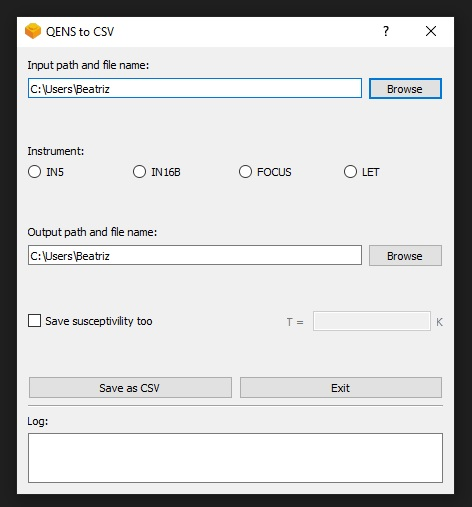
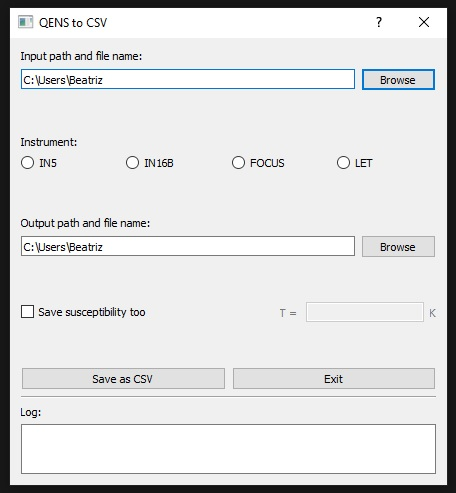
Documentation and typo fixes

diff --git a/QENS_to_csv_pkg/app_QENStoCSV_Dlg.py b/QENS_to_csv_pkg/app_QENStoCSV_Dlg.py
@@ -48,8 +48,8 @@ class DLG(QDialog, Ui_Dialog_QENStoCSV):
         to save the output file name and path
     _defaultPath: str
         to save the default path when initializing the app
-    _susceptivility_checked: bool
-        to save the value of the susceptivility checkbox
+    _susceptibility_checked: bool
+        to save the value of the susceptibility checkbox
     _temperature: str
         to save the (str) value of the temperature introduced
         in the lineEdit
@@ -102,9 +102,9 @@ class DLG(QDialog, Ui_Dialog_QENStoCSV):
         _defaultPath: str
             the default path in the browser.
             It is set to "./User/Documents"
-        _susceptivility_checked: bool
+        _susceptibility_checked: bool
             the status of the check box that gives the option to save
-            the susceptivility
+            the susceptibility
         _temperature: str
             the string value of the temperature introduced in the dlg
         _last_msg: str
@@ -122,7 +122,7 @@ class DLG(QDialog, Ui_Dialog_QENStoCSV):
         self._defaultPath = os.path.expanduser('~')
         # self._ifile_selected = False
         # self._ofile_selected = False
-        self._susceptivility_checked = False
+        self._susceptibility_checked = False
         self._temperature = ''
         self._last_msg = ''
         self._current_date = ''
@@ -252,16 +252,16 @@ class DLG(QDialog, Ui_Dialog_QENStoCSV):
 
         Also enables/disables the temperature lineEdit.
         """
-        if self.checkBox_Susceptivility.isChecked() is True:
+        if self.checkBox_Susceptibility.isChecked() is True:
             self.label_Temp.setDisabled(False)
             self.lineEdit_Temp.setDisabled(False)
             self.label_K.setDisabled(False)
-            self._susceptivility_checked = True
-        if self.checkBox_Susceptivility.isChecked() is False:
+            self._susceptibility_checked = True
+        if self.checkBox_Susceptibility.isChecked() is False:
             self.label_Temp.setDisabled(True)
             self.lineEdit_Temp.setDisabled(True)
             self.label_K.setDisabled(True)
-            self._susceptivility_checked = False
+            self._susceptibility_checked = False
 
     # Función que se ejecuta cuando pulso save
     def sortAndSave(self) -> bool:
@@ -399,7 +399,7 @@ class DLG(QDialog, Ui_Dialog_QENStoCSV):
                         ': Data succesfully exported to CSV!\n'
                     self.textBrowser_log.insertPlainText(self._last_msg)
 
-            if self._susceptivility_checked is True:
+            if self._susceptibility_checked is True:
                 # Guardo el valor de la temperatura
                 self._temperature = self.display_temp_Text()
                 temp: float
@@ -438,7 +438,7 @@ class DLG(QDialog, Ui_Dialog_QENStoCSV):
                         self._current_date = QDateTime.currentDateTime().\
                             toString('hh:mm:ss')
                         self._last_msg = self._current_date + \
-                            ': Error exporting susceptivility data to CSV!\n'
+                            ': Error exporting susceptibility data to CSV!\n'
                         self.textBrowser_log.setTextColor(QColor(255, 51, 0))
                         self.textBrowser_log.insertPlainText(self._last_msg)
                         return False
@@ -446,7 +446,7 @@ class DLG(QDialog, Ui_Dialog_QENStoCSV):
                         self._current_date = QDateTime.currentDateTime().\
                             toString('hh:mm:ss')
                         self._last_msg = self._current_date + \
-                            ': Susceptivility data exported to CSV!\n'
+                            ': Susceptibility data exported to CSV!\n'
                         self.textBrowser_log.insertPlainText(self._last_msg)
         return True
 
@@ -490,7 +490,7 @@ class QENStoCSV:
             self._view.updateRadioSelection)
         self._view.radioButton_LET.toggled.connect(
             self._view.updateRadioSelection)
-        self._view.checkBox_Susceptivility.stateChanged.connect(
+        self._view.checkBox_Susceptibility.stateChanged.connect(
             self._view.updateCheckBoxState)
 
 

diff --git a/QENS_to_csv_pkg/QENStoCSV_Dlg.py b/QENS_to_csv_pkg/QENStoCSV_Dlg.py
@@ -102,9 +102,9 @@ class Ui_Dialog_QENStoCSV(object):
         self.verticalLayout_5.addItem(spacerItem2)
         self.horizontalLayout_5 = QtWidgets.QHBoxLayout()
         self.horizontalLayout_5.setObjectName("horizontalLayout_5")
-        self.checkBox_Susceptivility = QtWidgets.QCheckBox(Dialog_QENStoCSV)
-        self.checkBox_Susceptivility.setObjectName("checkBox_Susceptivility")
-        self.horizontalLayout_5.addWidget(self.checkBox_Susceptivility)
+        self.checkBox_Susceptibility = QtWidgets.QCheckBox(Dialog_QENStoCSV)
+        self.checkBox_Susceptibility.setObjectName("checkBox_Susceptibility")
+        self.horizontalLayout_5.addWidget(self.checkBox_Susceptibility)
         spacerItem3 = QtWidgets.QSpacerItem(
             138, 20, QtWidgets.QSizePolicy.Expanding,
             QtWidgets.QSizePolicy.Minimum)
@@ -178,8 +178,8 @@ class Ui_Dialog_QENStoCSV(object):
         self.lineEdit_oFile.setText(
             _translate("Dialog_QENStoCSV", os.path.expanduser('~')))
         self.pushButton_oFile.setText(_translate("Dialog_QENStoCSV", "Browse"))
-        self.checkBox_Susceptivility.setText(
-            _translate("Dialog_QENStoCSV", "Save susceptivility too"))
+        self.checkBox_Susceptibility.setText(
+            _translate("Dialog_QENStoCSV", "Save susceptibility too"))
         self.label_Temp.setText(_translate("Dialog_QENStoCSV", "T = "))
         self.label_Temp.setDisabled(True)
         self.label_K.setText(_translate("Dialog_QENStoCSV", "K"))

diff --git a/docs/explanation.md b/docs/explanation.md
@@ -5,76 +5,84 @@ QENS to csv App arises from the neccesity to parse data recorded in different in
 ## IN5
 The data obtained in [IN5](https://www.ill.eu/for-ill-users/instruments/instruments-list/in5/description/instrument-layout) at [ILL](https://www.ill.eu/) (Granoble, France) was reduced using [Lamp](https://www.ill.eu/for-ill-users/support-labs-infrastructure/software-scientific-tools/lamp). The input file is a *.inx file. There are 4 header lines followed by the recorded data in three space-separated columns. This block repeats for each $Q$-value:
 
->  653    1    2    0    0    0    0  650
-> 
-> **0.0980**  81.799  6.2832    0.000   1.0 0
->                  0.0000  4.2959  0.0000
->       -4.99500  0.00000e+00 -1.0000e+00
->       -4.98500  0.00000e+00 -1.0000e+00
->       -4.97500  0.00000e+00 -1.0000e+00
->.................................................................
->        1.49500  0.00000e+00 -1.0000e+00
->  653    1    2    0    0    0    0  650
-> 
-> **0.1960**  81.799  6.2832    0.000   1.0 0
->                  0.0000  4.2959  0.0000
->       -4.99500  0.00000e+00 -1.0000e+00
->       -4.98500  0.00000e+00 -1.0000e+00
->       -4.97500  0.00000e+00 -1.0000e+00
->       -4.96500  0.00000e+00 -1.0000e+00
->.................................................................
+```text
+ 653    1    2    0    0    0    0  650
 
-The $Q$-value is the first value of the third row for each block (emphasized in bold in the above example).
+0.0980  81.799  6.2832    0.000   1.0 0
+                 0.0000  4.2959  0.0000
+      -4.99500  0.00000e+00 -1.0000e+00
+      -4.98500  0.00000e+00 -1.0000e+00
+      -4.97500  0.00000e+00 -1.0000e+00
+.......................................
+       1.49500  0.00000e+00 -1.0000e+00
+ 653    1    2    0    0    0    0  650
+
+0.1960  81.799  6.2832    0.000   1.0 0
+                 0.0000  4.2959  0.0000
+      -4.99500  0.00000e+00 -1.0000e+00
+      -4.98500  0.00000e+00 -1.0000e+00
+      -4.97500  0.00000e+00 -1.0000e+00
+      -4.96500  0.00000e+00 -1.0000e+00
+.......................................
+```
+
+The $Q$-value is the first value of the third row for each block.
 
 ## IN16B
 The data recorded in [IN16B](https://www.ill.eu/for-ill-users/instruments/instruments-list/in16b/description/instrument-layout) at [ILL](https://www.ill.eu/) (Grenoble, France) was reduced using [DAVE](https://www.ncnr.nist.gov/dave/index.html). The input file is a *.dat file. There are 26 main hearder lines (begining with the \# symbol) contining the metadata. Next, there are 4 subheader lines followed by the measurement at each $Q$-value, consisting in 3 tab separated columns with the recorded quantities:
 
-> \# instrument.name = IN16b 
-> \# user.proposal = 6-02-637 
->..............................................
-> \# Spectrum No. 0
-> \# q(Angstrom^-1) = 0.29
-> \# Scattering Angle(Degrees) = 16.80
-> \# Energy transfer(meV), Intensity, Error
-> -1.426190e-01	-9.629884e-02	 9.415056e-02
->.........................................................................
-> \# Spectrum No. 2
-> \# q(Angstrom^-1) = 0.59
-> \# Scattering Angle(Degrees) = 34.42
-> \# Energy transfer(meV), Intensity, Error
-> -1.426190e-01	 0.000000e+00	 0.000000e+00
->.........................................................................
+```text
+# instrument.name = IN16b 
+# user.proposal = 6-02-637 
+.............................................
+# Spectrum No. 0
+# q(Angstrom^-1) = 0.29
+# Scattering Angle(Degrees) = 16.80
+# Energy transfer(meV), Intensity, Error
+-1.426190e-01	-9.629884e-02	 9.415056e-02
+.............................................
+# Spectrum No. 2
+# q(Angstrom^-1) = 0.59
+# Scattering Angle(Degrees) = 34.42
+# Energy transfer(meV), Intensity, Error
+-1.426190e-01	 0.000000e+00	 0.000000e+00
+.............................................
+```
 
 ## FOCUS
 The data measured at [FOCUS](https://www.psi.ch/en/sinq/focus) at [PSI](https://www.psi.ch/en/cnm) (Villigen, Switzerland) was reduced using [DAVE](https://www.ncnr.nist.gov/dave/index.html). The input data file is a *.txt file. There are 58 main header lines (begining with the \# symbol) containing the metadata, followed by the measurements at each $Q$-value: 3 subheader lines followed by three space-separated columns with the recorded quantities:
 
-> \#DAVE ASCII OUTPUT
-> \#Instrument: FOCUS
->.......................................
-> \#Group Number: 1
-> \#Group Value: **0.35000000**
-> \#X Value    Intensity dIntensity
-> -1.0000000  -1.6424588  0.18596862
->...........................................................
-> \#Group Number: 2
-> \#Group Value: **0.45000000**
-> \#X Value    Intensity dIntensity
-> -1.0000000  0.34624067  0.42417713
->...........................................................
+```text
+#DAVE ASCII OUTPUT
+#Instrument: FOCUS
+...................................
+#Group Number: 1
+#Group Value: 0.35000000
+#X Value    Intensity dIntensity
+-1.0000000  -1.6424588  0.18596862
+..................................
+#Group Number: 2
+#Group Value: 0.45000000
+#X Value    Intensity dIntensity
+-1.0000000  0.34624067  0.42417713
+...................................
+```
 
-The $Q$-value is emphasized in bold in the above example.
+The $Q$-value is in the **\#Group Value:** line.
 
 ## LET
 The data recorded in [LET](https://www.isis.stfc.ac.uk/Pages/let.aspx) at [ISIS](https://www.isis.stfc.ac.uk/Pages/home.aspx) (Oxfordshire, UK) was reduce using [Mantid](https://www.mantidproject.org/) and [MSlice](http://mslice.isis.rl.ac.uk). In this case, there is a *.txt file for each $Q$. The files have 4 header lines (begining with the \# symbol) followed by the measured data in three space separated columns:
 
-> \# MSlice Cut of workspace "LET77597_1.05meV_rings"
-> \# Cut axis: DeltaE,-3.0,0.699999988079071,0.004999999888241291
-> \# Integration axis: |Q|,**0.7999999999999999,0.8999999999999999,** 0.0
-> \# (Energy Transfer (meV)) (Signal) (Error)
-> -3.000000000e+00          nan          nan
->.......................................................................
+```text
+# MSlice Cut of workspace "LET77597_1.05meV_rings"
+# Cut axis: DeltaE,-3.0,0.699999988079071,0.004999999888241291
+# Integration axis: |Q|,0.7999999999999999,0.8999999999999999, 0.0
+# (Energy Transfer (meV)) (Signal) (Error)
+-3.000000000e+00          nan          nan
+...................................................................
+```
 
-The $Q$ is the mean value of the quantities in the third row (emphasized in bold in the example).
+The $Q$ is the mean value of the quantities in the third row (**# Integration axis:**).
 
 # Output data files
 
@@ -86,13 +94,13 @@ The output file containing the scattered intensity data contains $3*n_Q$ (with $
 | -4.995  | 0.0                      | 0.0 | -4.995  | 0.0                      | 0.0 | ... |
 | ...     | ...                      | ... | ...     | ...                      | ... | ... |
 
-The name of the scattered intensity columns contains the name of the input file and thecorresponding $Q$-value.
+The name of the scattered intensity columns contains the name of the input file and the corresponding $Q$-value.
 
 ## Susceptibility: $\chi (Q, E)$
 QENS to csv App gives the option to calculate and export the susceptibility $\chi(Q, E)$ corresponding to each measurement, calculated as:[^1]
 
-$\chi''(Q, E) = \pi [\exp(|E|/k_B  T) - 1] S(Q, E)$,      $E < 0$
-$\chi''(Q, E) = \pi [1 - \exp(-E/k_B T) - 1] S(Q, E)$,    $E < 0$
+$\chi''(Q, E) = \pi [\textrm{e}^{|E|/k_B  T} - 1] S(Q, E)$,      $~~~~~~~~~~~~~~~E < 0$
+$\chi''(Q, E) = \pi [1 - \textrm{e}^{-E/k_B T} - 1] S(Q, E)$,    $~~~~~~~E > 0$
 
 The corresponding output file contains $4*n_Q$ (with $n_Q$ the number of $Q$-values) columns:
 
@@ -103,4 +111,4 @@ The corresponding output file contains $4*n_Q$ (with $n_Q$ the number of $Q$-val
 
 The energy columns contain the $|E|$ values, and the subscript indicates if the value corresponds to the negative ($-$) or the positive ($+$) energy. The name of the $\chi (Q, E)$ columns contain the name of the input file and the corresponding $Q$ value. The data is sorted in ascending order for the absolute value of energy.
 
-[^1]: Arbe, A., Nilsen, G. J., Stewart, J. R., Alvarez, F., Sakai, V. G., & Colmenero, J. (2020). Coherent structural relaxation of water from meso- To intermolecular scales measured using neutron spectroscopy with polarization analysis. Physical Review Research, 2(2), 022015. https://doi.org/10.1103/PhysRevResearch.2.022015
+[^1]: Arbe, A., Nilsen, G. J., Stewart, J. R., Alvarez, F., Sakai, V. G., & Colmenero, J. (2020). Coherent structural relaxation of water from meso- To intermolecular scales measured using neutron spectroscopy with polarization analysis. Physical Review Research, 2(2), 022015. [DOI: 10.1103/PhysRevResearch.2.022015](https://doi.org/10.1103/PhysRevResearch.2.022015)

diff --git a/docs/tutorials.md b/docs/tutorials.md
@@ -5,7 +5,9 @@ QENS to csv sorts data collected at [IN5](https://www.ill.eu/for-ill-users/instr
 QENS to csv App's interface looks like this:
 
 ![QENS to csv App GUI](QENStoCSVappGUI.jpg "QENS to csv App")
-*QENS to csv App GUI.*
+/// caption
+QENS to csv App GUI.
+///
 
 # Usage
 1. Write the absolute path and input file name in the corresponding edit box. Alternatively, you can click the **Browse** button to open a File Explorer window and select the input file.
@@ -16,8 +18,12 @@ QENS to csv App's interface looks like this:
 
 4. Click the **Save as CSV** botton to export the sorted data. 
 
-5. There is option to calculate the susceptibility $\chi(Q, E)$ and export it to another file. To activate this option, you have to mark the **Save susceptivility too** checkbox. 
+5. There is option to calculate the susceptibility $\chi(Q, E)$ and export it to another file. To activate this option, you have to mark the **Save susceptibility too** checkbox. 
 
-   ![QENS to csv App GUI chi](QENStoCSVappGUI_2.jpg "The GUI with the susceptivility option checked")
+   ![QENS to csv App GUI chi](QENStoCSVappGUI_2.jpg "The GUI with the susceptibility option checked")
+   /// caption
+   QENS to csv App GUI with the "Save susceptibility" option checked.
+   ///
 
-   Once checked, the temperature edit box will be active to write the corresponding value. When you click the **Save as CSV** botton both, the scattered intensity $S(Q, E)$ and the corresponding susceptivility $\chi(Q, E)$, will be exported to csv files. The name of the susceptivility file will be the same as the scattered intensity one, with "_chi" appended.
+
+   Once checked, the temperature edit box will be active to write the corresponding value. When you click the **Save as CSV** botton both, the scattered intensity $S(Q, E)$ and the corresponding susceptibility $\chi(Q, E)$, will be exported to csv files. The name of the susceptibility file will be the same as the scattered intensity one, with "_chi" appended.
